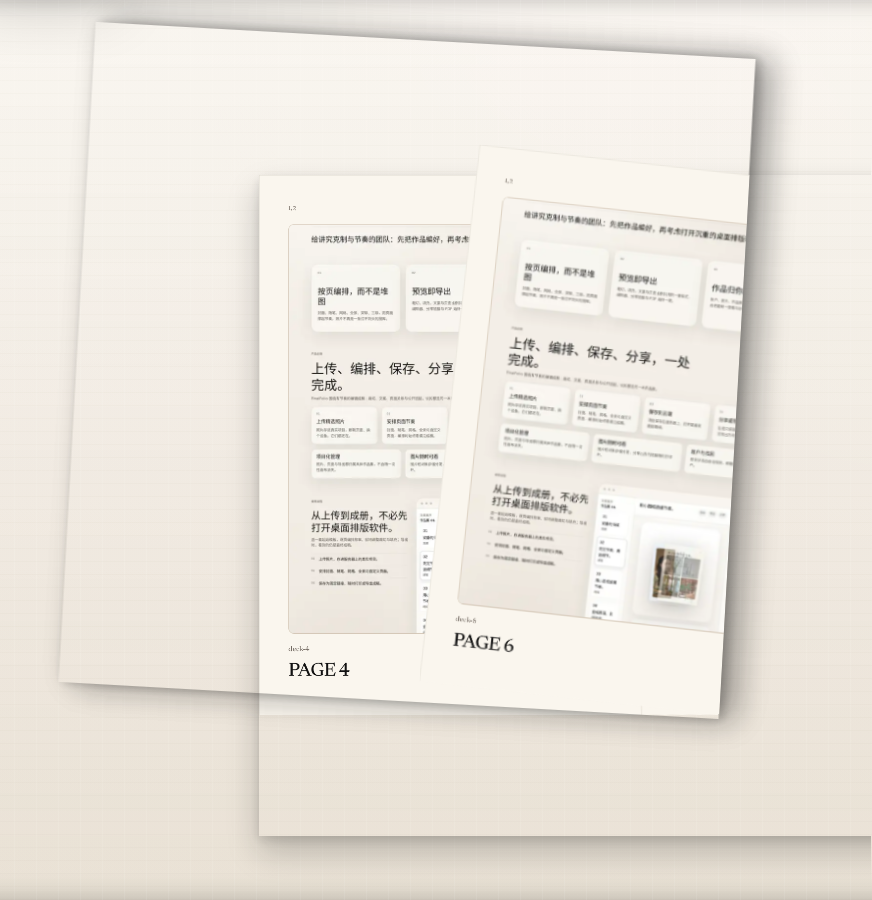
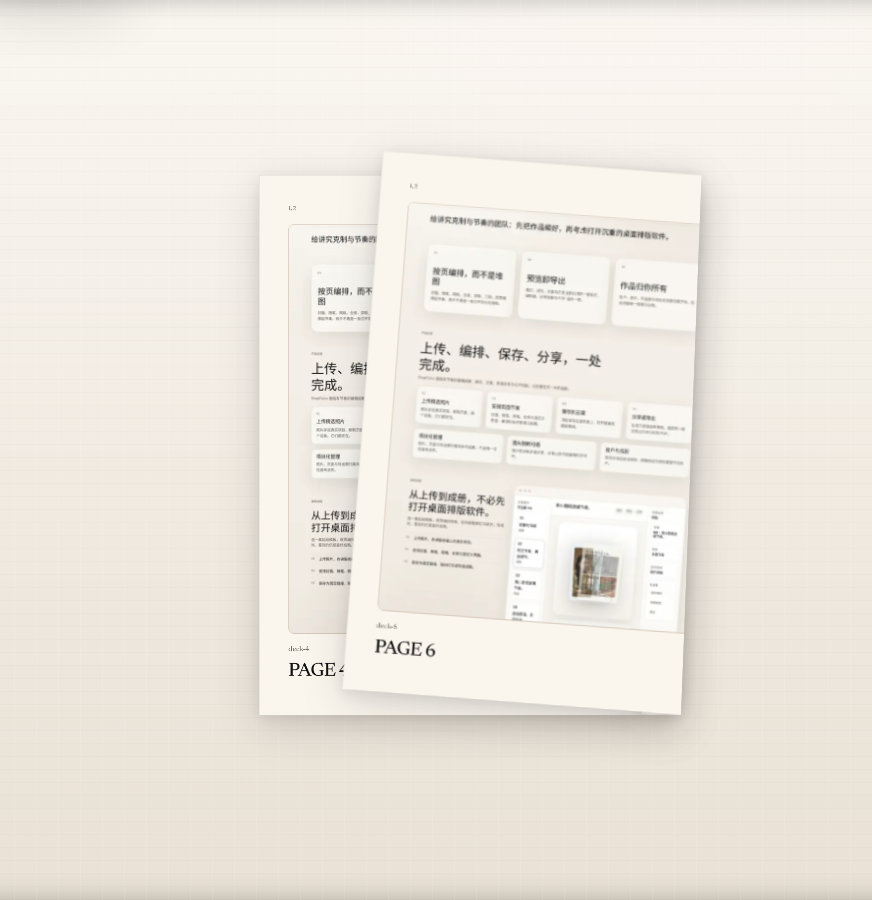
Restore the previous per-page drop-shadow
The box-shadow experiments on `.clip`/`.inner-page` produced the wrong shadow.
Restore the previous correct implementation: no global background shadow, and a
`drop-shadow` filter on each page wrapper so the shadow follows the page in
every state. The turn clipping chain and runtime are unchanged from that
version.

Tests and docs are restored to match the drop-shadow implementation.

Changed region(s): [[0.0619, 0.0, 1.0, 0.9644]]

diff --git a/tests/e2e/reader-turn.spec.ts b/tests/e2e/reader-turn.spec.ts
@@ -107,9 +107,8 @@ type PageShadowState = {
   globalAfterContent: string;
   globalBeforeShadow: string;
   globalAfterShadow: string;
-  wrapperFilters: string[];
-  visiblePageShadows: string[];
-  imageAncestorFilters: string[];
+  pageFilters: string[];
+  visiblePageFilters: string[];
 };
 
 async function pageShadowState(page: Page): Promise<PageShadowState | null> {
@@ -118,44 +117,23 @@ async function pageShadowState(page: Page): Promise<PageShadowState | null> {
     if (!book) return null;
     const wrappers = Array.from(book.querySelectorAll('.page-wrapper'));
     const visible = wrappers.filter((wrapper) => wrapper.getBoundingClientRect().width > 10);
-    const imageAncestorFilters = Array.from(book.querySelectorAll('img')).flatMap((image) => {
-      const filters: string[] = [];
-      let node: HTMLElement | null = image;
-      while (node && node !== book) {
-        filters.push(getComputedStyle(node).filter);
-        node = node.parentElement;
-      }
-      return filters;
-    });
     return {
       className: book.className,
       globalBeforeContent: getComputedStyle(book, '::before').content,
       globalAfterContent: getComputedStyle(book, '::after').content,
       globalBeforeShadow: getComputedStyle(book, '::before').boxShadow,
       globalAfterShadow: getComputedStyle(book, '::after').boxShadow,
-      wrapperFilters: wrappers.map((wrapper) => getComputedStyle(wrapper).filter),
-      visiblePageShadows: visible.map(
-        (wrapper) => getComputedStyle(wrapper.querySelector('.clip') ?? wrapper).boxShadow,
-      ),
-      imageAncestorFilters,
+      pageFilters: wrappers.map((wrapper) => getComputedStyle(wrapper).filter),
+      visiblePageFilters: visible.map((wrapper) => getComputedStyle(wrapper).filter),
     };
   });
 }
 
 function expectPageShadows(state: PageShadowState | null) {
   expect(state).not.toBeNull();
-  expect(state!.visiblePageShadows.length).toBeGreaterThan(0);
-  for (const shadow of state!.visiblePageShadows) {
-    expect(shadow, 'page surface shadow').not.toBe('none');
-    expect(shadow).toContain('rgba');
-  }
-  // No filter on the wrappers or on any image ancestor: filters force the
-  // page content to re-rasterize during 3D transforms and make images flicker.
-  for (const filter of state!.wrapperFilters) {
-    expect(filter, 'page wrapper filter').toBe('none');
-  }
-  for (const filter of state!.imageAncestorFilters) {
-    expect(filter, 'image ancestor filter').toBe('none');
+  expect(state!.visiblePageFilters.length).toBeGreaterThan(0);
+  for (const filter of state!.visiblePageFilters) {
+    expect(filter).toContain('drop-shadow');
   }
   expect(state!.globalBeforeContent).toBe('none');
   expect(state!.globalAfterContent).toBe('none');
@@ -214,66 +192,6 @@ test('a turn keeps the page shadow and never introduces a global background shad
   await page.mouse.up();
   await page.waitForTimeout(300);
   expectPageShadows(await pageShadowState(page));
-});
-
-test('hovering a corner and pressing a page do not change the page shadow', async ({ page }) => {
-  await signIn(page, '/editor');
-  const sharePath = await createShare(page);
-  await page.goto(sharePath);
-  await expect(page.locator('.issue-viewer__turnjs--ready')).toBeVisible({ timeout: 20_000 });
-  await page.waitForTimeout(800);
-  const next = page.locator('.issue-view-sidebar button').filter({ hasText: /Next|下一页/ }).first();
-  await next.click();
-  await page.waitForTimeout(900);
-
-  const shadows = () =>
-    page.evaluate(() => {
-      const map = new Map<string, string>();
-      document.querySelectorAll('.issue-viewer__turnjs .page-wrapper').forEach((wrapper) => {
-        if (wrapper.getBoundingClientRect().width <= 10) return;
-        const page = wrapper.querySelector('.page');
-        const key = page?.className.match(/\bp\d+\b/)?.[0] ?? Math.random().toString();
-        map.set(key, getComputedStyle(wrapper.querySelector('.clip') ?? wrapper).boxShadow);
-      });
-      return Array.from(map.entries());
-    });
-
-  const before = await shadows();
-  const beforeMap = new Map(before);
-  const book = page.locator('.issue-viewer__turnjs');
-  const box = await book.boundingBox();
-  expect(box).not.toBeNull();
-
-  // Hover each corner; the page shadow value must not change.
-  const corners: Array<[number, number]> = [
-    [box!.x + 8, box!.y + 8],
-    [box!.x + box!.width - 8, box!.y + 8],
-    [box!.x + 8, box!.y + box!.height - 8],
-    [box!.x + box!.width - 8, box!.y + box!.height - 8],
-  ];
-  for (const [x, y] of corners) {
-    await page.mouse.move(x, y);
-    await page.waitForTimeout(350);
-    const after = new Map(await shadows());
-    for (const [key, value] of beforeMap) {
-      if (after.has(key)) {
-        expect(after.get(key), `shadow for ${key} after hovering ${x},${y}`).toBe(value);
-      }
-    }
-  }
-
-  // Press and hold the page centre; the shadow value must not change.
-  await page.mouse.move(box!.x + box!.width / 2, box!.y + box!.height / 2);
-  await page.mouse.down();
-  await page.waitForTimeout(500);
-  const pressed = new Map(await shadows());
-  for (const [key, value] of beforeMap) {
-    if (pressed.has(key)) {
-      expect(pressed.get(key), `shadow for ${key} after press`).toBe(value);
-    }
-  }
-  await page.mouse.up();
-  await page.waitForTimeout(300);
 });
 
 test('mobile keeps per-page shadows and no global background shadow', async ({ browser }) => {

diff --git a/src/styles.css b/src/styles.css
@@ -5022,22 +5022,13 @@ button.asset-frame {
   display: none !important;
 }
 
-
-
+/* No global background shadow. Each page carries its own drop shadow, so it is
+   present whether the page is closed, open, turning, or flat, and it follows
+   the page through the air. */
 .issue-viewer__turnjs .page-wrapper {
-  overflow: visible !important;
-}
-
-/* Each page's own shadow lives on .clip. .clip keeps overflow hidden, so its
-   own shadow is not clipped while the page content stays clipped. Only the
-   outer wrapper is opened so the shadow can leave it. `backface-visibility`
-   stays visible on .clip so the shadow survives the whole turn; the inner
-   sheet keeps `hidden`, so page content still only shows on the front. */
-.issue-viewer__turnjs .clip {
-  backface-visibility: visible;
-  box-shadow:
-    0 16px 30px rgba(17, 17, 17, 0.22),
-    0 4px 10px rgba(17, 17, 17, 0.12);
+  filter:
+    drop-shadow(0 12px 20px rgba(17, 17, 17, 0.15))
+    drop-shadow(0 3px 7px rgba(17, 17, 17, 0.08));
 }
 
 .issue-viewer__turnjs .even .gradient,
@@ -5086,14 +5077,14 @@ button.asset-frame {
 
 .issue-turnjs__sheet-scale .magazine-page {
   box-shadow:
-    0 12px 22px rgba(17, 17, 17, 0.16),
-    0 3px 7px rgba(17, 17, 17, 0.08);
+    0 7px 12px rgba(17, 17, 17, 0.008),
+    0 2px 4px rgba(17, 17, 17, 0.004);
 }
 
 .issue-turnjs__page--boundary .issue-turnjs__sheet-scale .magazine-page {
   box-shadow:
-    0 10px 18px rgba(17, 17, 17, 0.14),
-    0 2px 6px rgba(17, 17, 17, 0.07);
+    0 8px 14px rgba(17, 17, 17, 0.011),
+    0 2px 5px rgba(17, 17, 17, 0.005);
 }
 
 .issue-viewer__boundary-turn {

diff --git a/docs/issue-register.md b/docs/issue-register.md
@@ -163,7 +163,7 @@
 | T7 | 图库磁贴悬停时边框变白，照片像被裁掉 | hover 规则用了白色边框 + 浮起阴影 | 已修复：悬停只把边框加深到 30% 墨色，不浮起、不变白 |
 | T8 | 图片未加载时显示纯白块，像是坏了 | 没有加载/失败状态 | 已修复：共用 `PhotoThumb`，加载中显示“加载中…”，失败显示“图片无法显示”；证据 `docs/evidence/2026-11-21-gallery-loading.png` |
 | T9 | 点击 UnAlbum 图片只显示“导入中”，随后没有反应，实际无法使用 | 导入路由还引用了已删除的 `binding` 变量，接口 500 | 已修复：使用 `getPhotoForUser` 返回的 binding；`validate:mvp` 新增真实导入 + 去重 + 缩略图代理用例 |
-| T20 | 全局背景阴影闪烁/消失/提前出现；页面阴影在按压、拖动、悬停折角时不稳定；翻页时图片闪烁 | 背景阴影绑定到掀起/按压/提交时序；页面阴影曾用 `filter: drop-shadow`，filter 会合成整页（含图片）并在 3D 翻页中逐帧重绘；`.clip` 的 `backface-visibility: hidden` 会在页面转过 90° 后隐藏其 box-shadow | 已移除全局背景阴影；页面阴影改为 `.clip` 上的静态 `box-shadow`，`.clip` 设 `backface-visibility: visible` 保证翻动全程可见，内层保持 `hidden` 保证内容只显示正面；页面与图片祖先均无 filter，图片不再闪烁。测试 reader 6/6 |
+| T20 | 全局背景阴影闪烁；按住页面时加深/消失；拖动时整块消失；取消拖动返回时提前出现；页面掀起后背景仍在或消失不及时 | 背景阴影被绑定到掀起/按压/提交时序，逐帧切换无法稳定匹配纸张；多次按侧/按压门/提交门修补仍有时序差 | 已彻底移除全局背景阴影（`::before`/`::after` 与全部阴影状态代码），改为每个 `.page-wrapper` 自带 `drop-shadow`，闭合/展开/翻动/平铺都保留并随纸移动；turn.js gradients 关闭隐藏。无全局层可闪烁/消失/提前出现。测试 reader 5/5 |
 | T19 | 从封面翻开时左侧出现第二页内容；turn.js 单面页面把封面正面留在左边、把目标页画在翻页背面 | 阅读器把每一页当作单面 DOM，turn.js 的 sheet 效果没有独立背面 | **未修复，需页面模型改造**：正确方案是把奇数页/偶数页配成一张纸，正反两面分别渲染并做背面隐藏；试过的 CSS 镜像/隐藏背面会产生空白或扭曲，已回退。需要确认翻页配对规则后再改（见报告 2026-11-22） |
 | T18 | 分享页未翻页时杂志没有任何背景阴影或轮廓，像浮在空白上的白纸；已有的阴影 CSS 从未被任何代码激活 | 阴影状态类无人设置，turn.js 自带 `.shadow` 又被强制隐藏 | 已修复：在书本体上增加非旋转接触阴影（左右两半，`::before`/`::after`），按 cover/spread/last 三种静止形态只覆盖真实纸张，翻页期间按仍在桌面上的纸张逐半保留/移除；1px 纸边 + 两层柔和投影，ready 后才淡入。实测 cover/spread/翻页中/落页/折角/拖拽折角/移动端/全屏 8 种状态；证据 `docs/evidence/2026-11-22-reader-*.png`；新增 e2e 断言三种静止形态的阴影几何 |
 | T14 | 公开分享页拖拽翻页后，页面一直粘在鼠标上，松开左键或单击都不释放 | 内置 turn.js 在全局 mouseup 中对 `document` 调用 `offset()`、对没有事件数据的元素取 `dispatch`，抛错后没有清理拖拽状态；peel 释放时又访问了不存在的 `dpoint` | 已修复：对 vendor 里三处做防御（document offset、缺失 events、缺失 dpoint），并把版本号提升到 `20261121e`；新增 e2e 拖拽-释放-移动断言，连续 8 次通过 |

diff --git a/docs/remediation-report-2026-11-22.md b/docs/remediation-report-2026-11-22.md
@@ -7,24 +7,19 @@ vanished during a drag, and could reappear before a cancelled page had settled.
 After several attempts to drive it from the lift state, the user accepted the
 fallback: remove the global background shadow and keep each page's own shadow.
 
-**Decision.** There is no global background/contact shadow. Every page surface
-carries its own `box-shadow`, so a page has a shadow whether it is closed, open,
-turning, or flat, and the shadow follows it through the air. A `box-shadow` does
-not create a filter layer, so the page content (including images) is not
-re-rasterized during the 3D turn, which removes the image flicker. The shadow is
-static CSS, so it cannot flicker, disappear, or appear early.
+**Decision.** There is no global background/contact shadow. Every page wrapper
+carries its own drop-shadow filter, so a page has a shadow whether it is closed,
+open, turning, or flat, and the shadow follows it through the air. Because the
+shadow is a static CSS filter on the page, it cannot flicker, disappear, or
+appear early.
 
 **Implementation:**
 
 - Removed the two half-layers (`.issue-viewer__turnjs::before/::after`) and all
   code that toggled them (`shadowLeft`/`shadowRight`, `data-lift-side`, the
   per-frame lift loop, pointer-drag tracking).
-- `.issue-viewer__turnjs .clip` has a static `box-shadow` and
-  `backface-visibility: visible`, so the shadow survives the whole turn. Turn.js
-  transforms `.clip`, so the shadow follows the moving page. `.page-wrapper` is
-  `overflow: visible` so the shadow can leave the wrapper; `.inner-page` keeps
-  `backface-visibility: hidden` so content still only shows on the front. There
-  is no `filter` on the wrapper or on any image ancestor.
+- `.issue-viewer__turnjs .page-wrapper` has a `drop-shadow` filter. Turn.js
+  transforms the wrapper, so the shadow follows the moving sheet.
 - Turn.js `gradients` is off and its `inner-gradient`/`outer-gradient` layers are
   hidden, so there is no direction-dependent spine band.
 - The page's own `.magazine-page` box-shadow remains as a subtle surface edge.
@@ -34,11 +29,11 @@ static CSS, so it cannot flicker, disappear, or appear early.
 | State | Global background shadow | Per-page shadow |
 | --- | --- | --- |
 | Cover (closed) | none | cover page |
-| Cover opening, mid-flight | none | moving page (`p1`/`p2`) |
+| Cover opening, mid-flight | none | moving sheet (`p1`/`p2`) |
 | Spread | none | both pages |
-| Closing / last page, mid-flight | none | moving page and flat pages |
+| Closing / last page, mid-flight | none | moving sheet and flat pages |
 | Drag, cancelled | none | unchanged |
-| Press / hover | none | shadow value unchanged |
+| Press / hover | none | unchanged |
 
 **States verified visually** (evidence in `docs/evidence/`):
 
@@ -56,12 +51,10 @@ static CSS, so it cannot flicker, disappear, or appear early.
 | Mobile single page | `2026-11-22-reader-mobile.png` |
 | Fullscreen | `2026-11-22-reader-fullscreen.png` |
 
-**Regression guard:** `tests/e2e/reader-turn.spec.ts` asserts that visible pages
-carry a `box-shadow` in every state (cover, spread, last page, mid-turn, press,
-mobile, auto-slide), that no page wrapper or image ancestor has a `filter`, and
-that the book has no `::before`/`::after` background layer. A dedicated test
-hovers all four corners and presses the page, asserting the per-page shadow value
-does not change.
+**Regression guard:** `tests/e2e/reader-turn.spec.ts` asserts that visible page
+wrappers carry a `drop-shadow` filter in every state (cover, spread, last page,
+mid-turn, press, mobile, auto-slide) and that the book has no `::before`/`::after`
+background layer.
 
 ### Known limitation found while validating the opening
 

diff --git a/docs/devlog.md b/docs/devlog.md
@@ -1914,17 +1914,11 @@
   at full strength while a page was in the air, and that turn.js's fold gradients
   were the direction-dependent spine shading. Turn.js's `.shadow` element paints
   nothing and was ruled out.
-- The global background shadow is gone. Every page's `.clip` carries its own
-  `box-shadow`, so a page has a shadow whether closed, open, turning, or flat,
-  and it follows the sheet through the air. `.clip` keeps `overflow: hidden`, so
-  its own shadow shows while content stays clipped; only `.page-wrapper` is
-  overflow visible. `.clip` also has `backface-visibility: visible` so the
-  shadow survives past 90° in the turn, while `.inner-page` stays `hidden` so
-  content still only shows on the front. `.inner-page` and the boundary page
-  keep their original clipping, so the turn animation is unchanged. No `filter`
-  is used on the wrapper or on image ancestors, so page content is not
-  re-rasterized during the
-  turn and images do not flicker.
+- The global background shadow is gone. Every page wrapper carries its own
+  drop-shadow filter, so a page has a shadow whether closed, open, turning, or
+  flat, and it follows the sheet through the air. With no global layer there is
+  nothing to flicker, vanish on a drag, or reappear before a cancelled page
+  settles.
 - Turn.js gradients are disabled and their layers hidden, so the spine has the same
   (no) shading in both directions.
 - The moving sheet keeps its own shadow: the per-frame pass marks page wrappers
